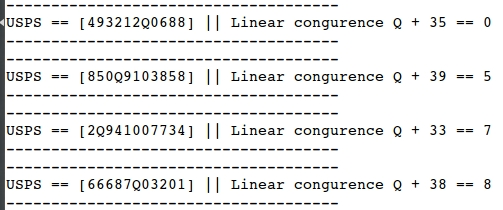
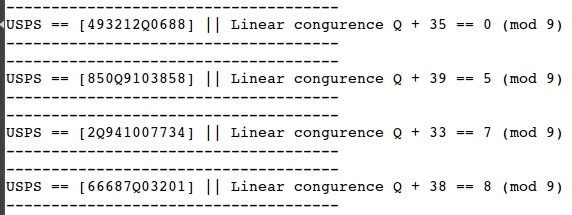
modifed solution 20

diff --git a/Chapter_4_Number_Theory_And_Cryptography/4.5_Applications_Of_Congurences/Exercises/repo/problem_20.cpp b/Chapter_4_Number_Theory_And_Cryptography/4.5_Applications_Of_Congurences/Exercises/repo/problem_20.cpp
@@ -4,18 +4,19 @@
 void find(const std::string& usps) {
     int check = 0;
     int Q = 0;
-    int i = 0;
+    std::size_t i = 0;
+
     while (i < usps.size() - 1) {
         if (usps[i] != 'Q')
-            Q = i + 1;
-        else
-            check += usps[i] - '0';
+            check += (usps[i] - '0');
         ++i;
     }
 
-    printf("Linear Congurence == Q + %d = %c (mod 9)\n",
-           check, usps[i]);
-    printf("Linear Congurence == Q = %d (mod 9)\n",  usps[i] - '0' - check);
+    int t = usps[i] - '0' - check;
+    t = (-1 * ((t / 9) - 1)) * 9;
+    t = (t + usps[i] - '0' - check) % 9;
+    printf("USPS == [%s] || Linear congurence Q + %2d == %d (mod 9)\n",
+           usps.c_str(), check, t);
 }
 
 void test(const std::string& usps) {

diff --git a/Chapter_4_Number_Theory_And_Cryptography/4.5_Applications_Of_Congurences/Exercises/repo/problem_21.cpp b/Chapter_4_Number_Theory_And_Cryptography/4.5_Applications_Of_Congurences/Exercises/repo/problem_21.cpp
@@ -15,7 +15,7 @@ void find(const std::string& usps) {
     int t = usps[i] - '0' - check;
     t = (-1 * ((t / 9) - 1)) * 9;
     t = (t + usps[i] - '0' - check) % 9;
-    printf("USPS == [%s] || Linear congurence Q + %2d == %d\n",
+    printf("USPS == [%s] || Linear congurence Q + %2d == %d (mod 9)\n",
            usps.c_str(), check, t);
 }
 
